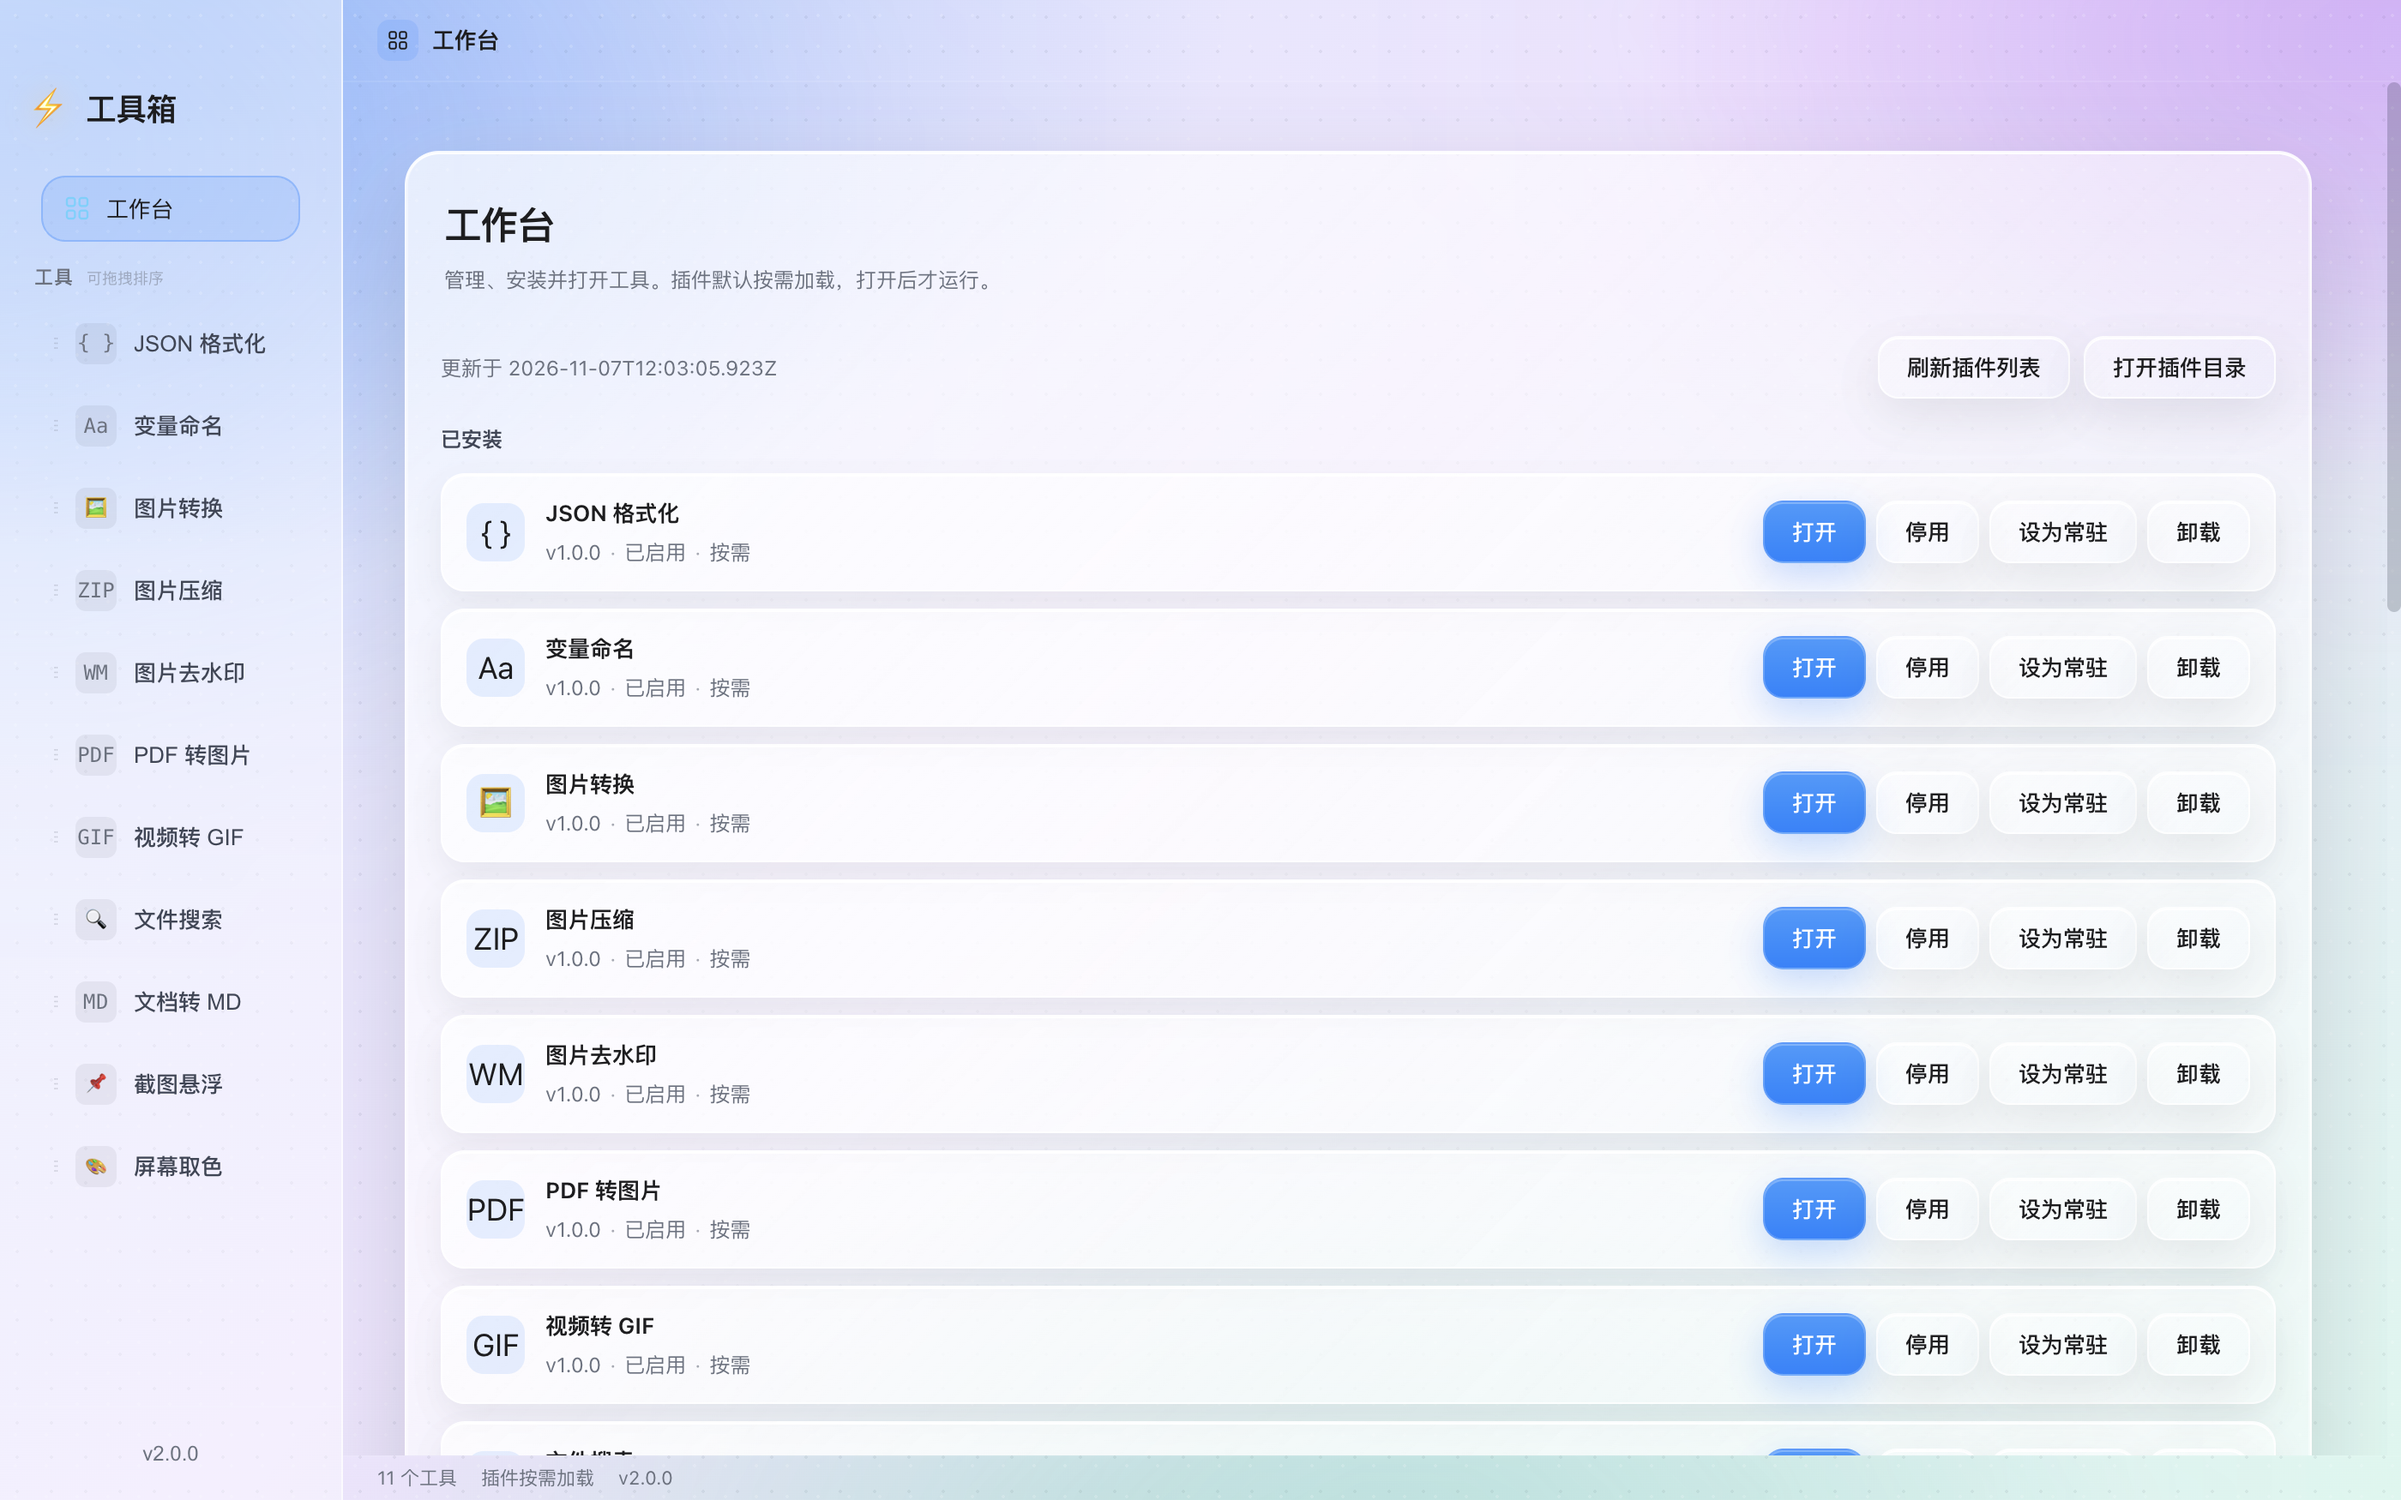
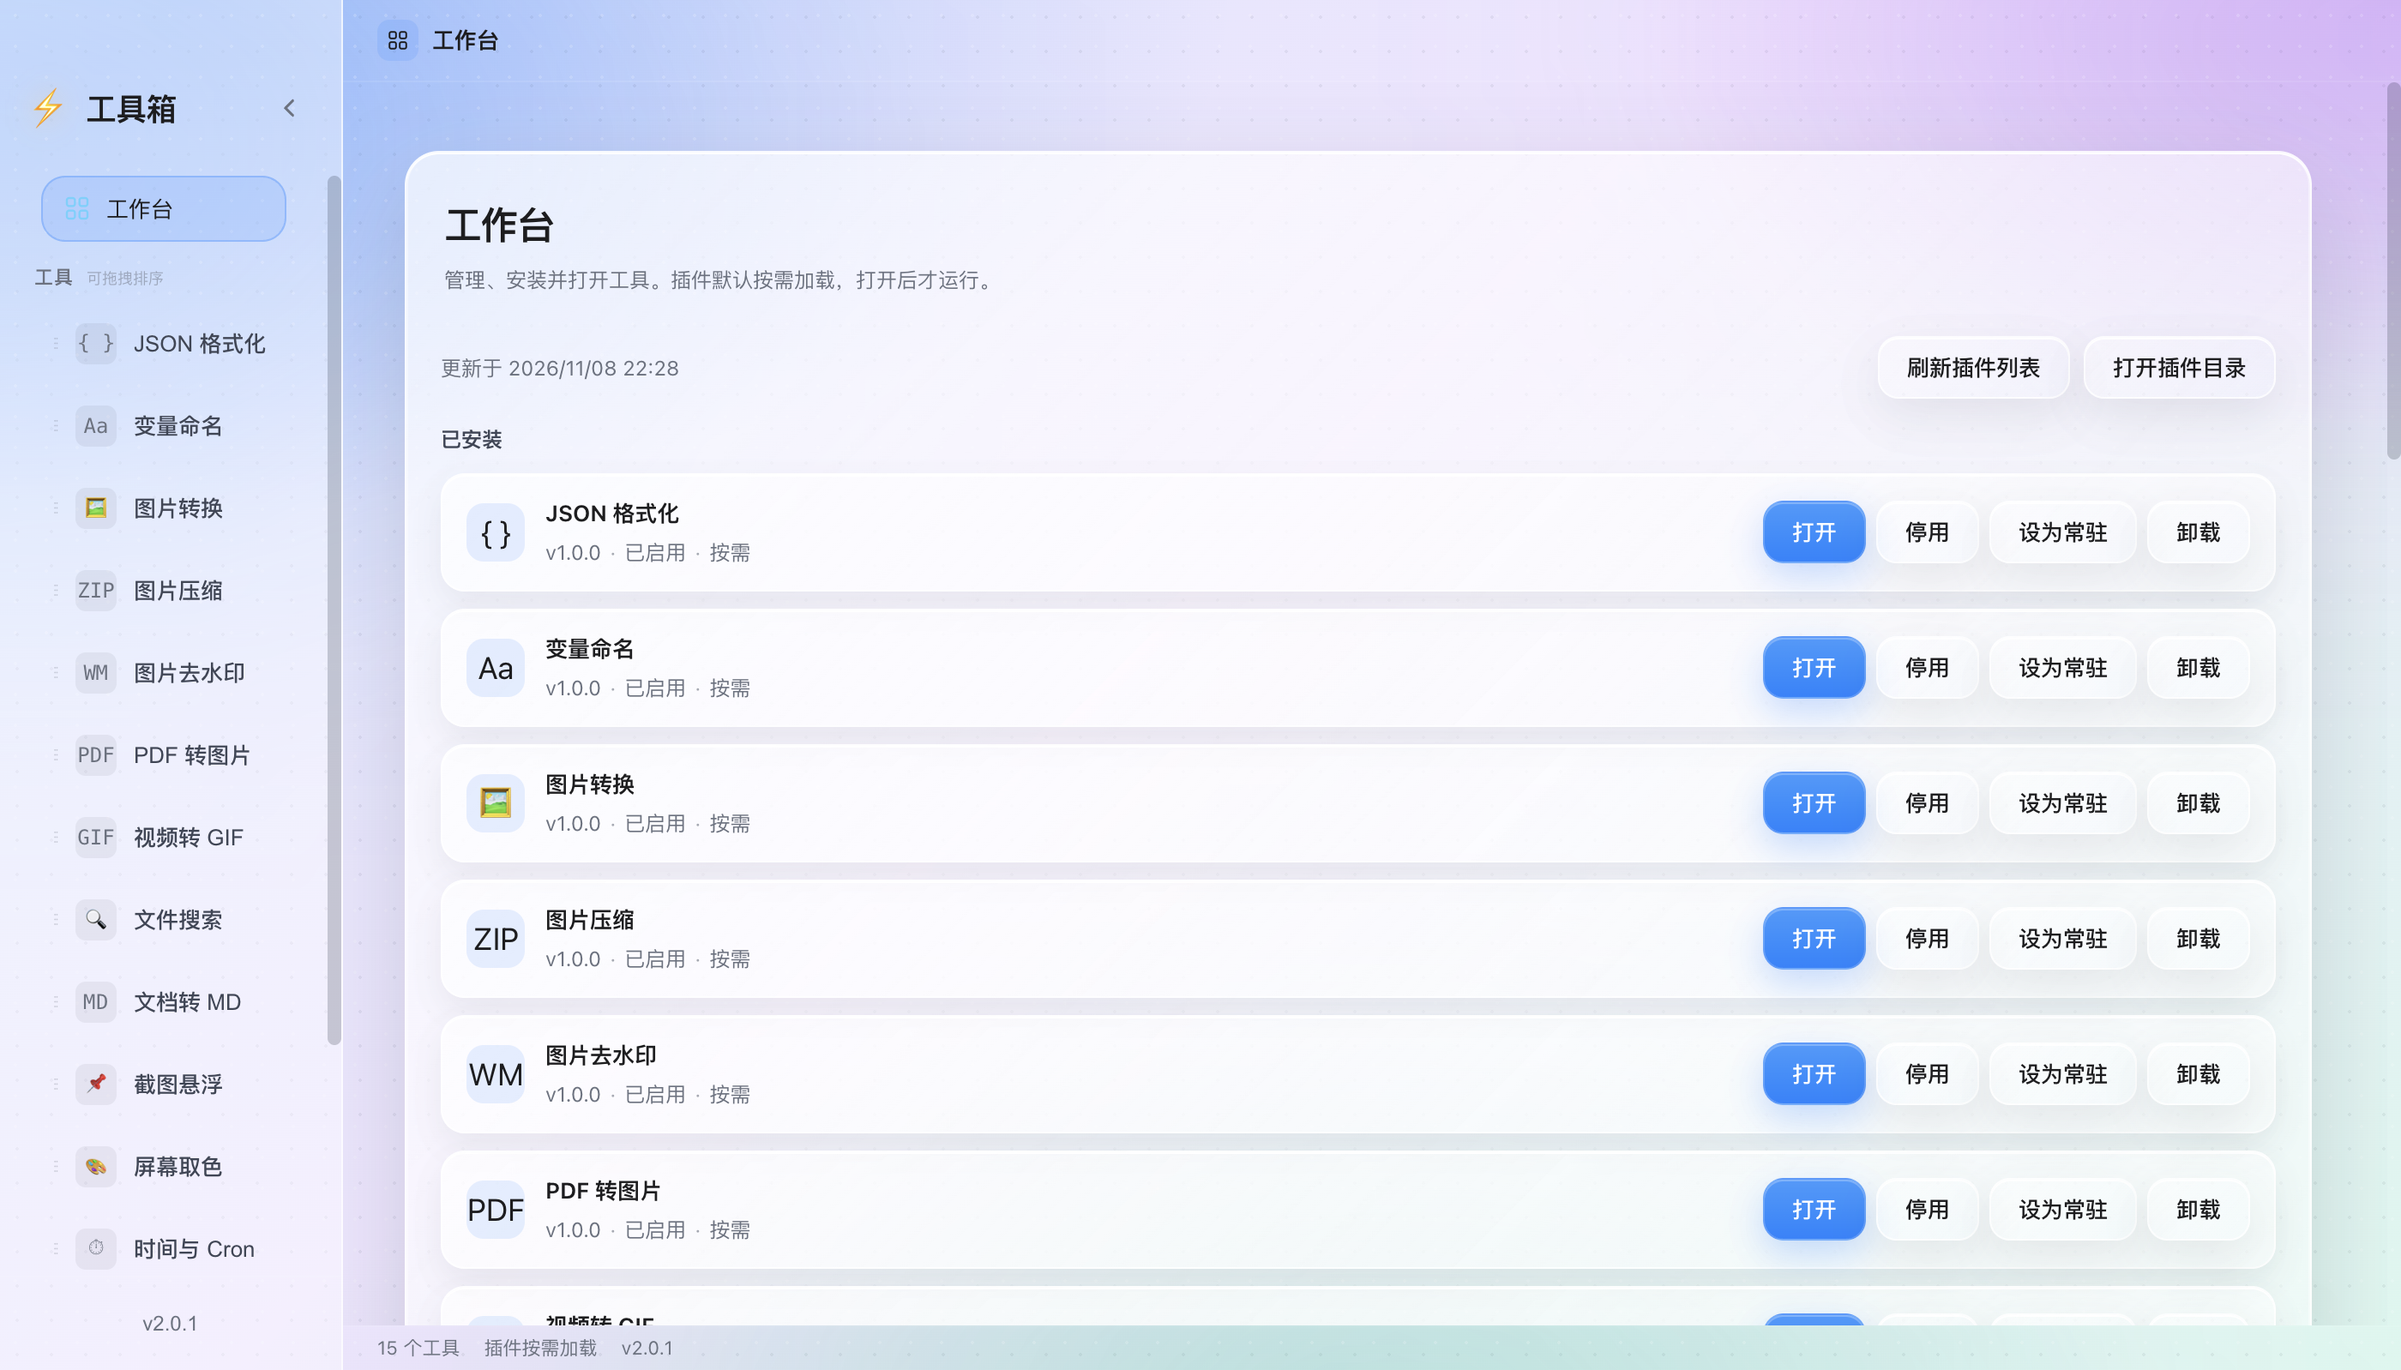
更新功能截图并新增 MCP skill

diff --git a/.qoder/skills/bennett-toolbox-mcp/SKILL.md b/.qoder/skills/bennett-toolbox-mcp/SKILL.md
@@ -1,0 +1,83 @@
+---
+name: bennett-toolbox-mcp
+description: Use the local Bennett Toolbox MCP server for JSON formatting, read-only SQLite queries, MarkItDown conversion, file search, time/Cron, QR codes, encoding/hash/JWT, regex/diff, and image inspection/conversion. Trigger when the user asks for these operations and the bennett-toolbox MCP tools are available; also use when an MCP tool fails or returns unexpected results.
+---
+
+# Bennett Toolbox MCP
+
+Bennett Toolbox exposes 14 local MCP tools. Use them instead of ad-hoc shell scripts when the MCP server is connected. Full schemas, examples, and installation instructions are in `docs/mcp.md`; tool descriptions are the source of truth.
+
+## First check
+
+1. Confirm the `bennett-toolbox` MCP server is connected and its tools are listed.
+2. If it is missing, tell the user to reload/restart the MCP client using the config in `docs/mcp.md`. Do not claim a tool ran if it is unavailable.
+3. If a tool schema differs from this skill, trust the live schema returned by the client.
+
+## Tool map
+
+| Task | Tool |
+| --- | --- |
+| Format/minify JSON | `json_format` |
+| Read-only SQLite | `sqlite_query` |
+| Document to Markdown | `markitdown_convert` |
+| Find files by name | `file_search` |
+| Timestamp/timezone | `time_convert` |
+| Next cron runs | `cron_next` |
+| QR code | `qr_generate` |
+| Base64/URL/Hex | `encoding_convert` |
+| Hashes/HMAC | `hash_text` |
+| JWT decode/verify | `jwt_decode` |
+| Regex test/replace | `regex_test` |
+| Text diff | `text_diff` |
+| Image metadata | `image_info` |
+| Image convert/resize | `image_convert` |
+
+## Operating rules
+
+- Prefer absolute paths. The tools read local files and return content to the AI client.
+- `sqlite_query` is **read-only**: one statement, no INSERT/UPDATE/DELETE/DDL or PRAGMA assignments; default limit 200, max 1000. Never try to bypass this with SQL tricks.
+- Use `sqlite_query` for schema inspection:
+  1. `SELECT name, type FROM sqlite_master WHERE type IN ('table','view') ORDER BY name`
+  2. `PRAGMA table_info("table_name")`
+  3. Then query data with a `LIMIT`.
+- Do not send secrets to tools unless the task needs them. Logs redact `secret/key/token/password`, but paths and SQL/text previews are logged.
+- Images and QR PNG are returned as MCP image content, not written to disk. If the user wants a file, explain that the client must save it.
+- `image_convert` requires sharp. The ZIP distribution installs it; the standalone `.mjs` only works for non-image tools unless sharp is available.
+- `markitdown_convert` uses `MARKITDOWN_BIN`, `BENNETT_MARKITDOWN_COMPONENT_DIR`, or the installed component. If it reports missing, ask the user to install the component or set `MARKITDOWN_BIN`.
+- Avoid catastrophic regex patterns; `regex_test` caps matches but cannot cancel arbitrary backtracking.
+
+## Common workflows
+
+### Inspect a SQLite database
+1. List tables/views with `sqlite_query`.
+2. Inspect columns with `PRAGMA table_info`.
+3. Run a bounded query, e.g. `SELECT * FROM "users" LIMIT 20`.
+4. Report `truncated: true` honestly and raise the limit only when needed.
+
+### Convert a document
+1. Confirm the file path exists.
+2. Call `markitdown_convert` with a timeout when needed.
+3. If MarkItDown is missing, stop and report the component/env fix.
+
+### Transform JSON
+Call `json_format`; use `minify: true` only when the user asks for compact output. Never hand-edit the returned JSON unless asked.
+
+### Time and Cron
+Use `time_convert` for epoch/ISO conversions and `cron_next` for schedule previews. State the timezone explicitly in the answer.
+
+### Security-sensitive text
+Use `hash_text`, `jwt_decode`, `encoding_convert`. For JWT verification, never echo the secret or full token in the final answer.
+
+### Images and QR
+Use `image_info` before converting. Use `image_convert` for format/quality/resize; report MIME, dimensions, and that the result is image content, not a saved file.
+
+## Troubleshooting
+
+- Tool missing: reload the MCP client; verify the server command uses Node 24+ and the correct `mcp/server.mjs` path.
+- SQLite error: check the file path/format; writes are intentionally rejected.
+- `node:sqlite` error: use Node 26/24 absolute path.
+- MarkItDown error: install the component or set `MARKITDOWN_BIN`.
+- Image error: install sharp (`npm install` in the ZIP distribution).
+- Logs: `~/Library/Logs/bennett-toolbox/mcp.log` (macOS), `%LOCALAPPDATA%\bennett-toolbox\logs\mcp.log` (Windows), `~/.local/state/bennett-toolbox/mcp.log` (Linux). Search `"success":false`; `BENNETT_MCP_LOG_DIR` overrides.
+
+Do not reimplement MCP behavior with shell commands when a connected tool exists. If MCP is unavailable, say so before using a fallback.

diff --git a/AGENTS.md b/AGENTS.md
@@ -31,7 +31,7 @@
 - 运行时：Node.js >= 24.8.0（验证环境 26.13.0），包管理器 npm
 - 测试：浏览器 `npm run test:e2e`；Electron 功能 `npm run test:electron`（55 项，含设置页英文扫描、主题持久化、响应式与侧栏折叠）；插件规则 `npm run test:unit`（6 项）；插件安装/加载/安全/组件下载/跨版本复用/并发状态/单实例 `npm run test:plugins`（6 项）；MCP `npm run test:mcp`（9 项）；打包版通过 `ELECTRON_APP_PATH` 指向 `.app` 可执行文件
 - 插件：独立仓库 `bennett-0727/bennett-toolbox-plugins`（官方插件 tag `plugin-v1.2.0`），11 个推荐工具 + 4 个可选开发者工具均为可安装插件；registry 通过 GitHub Release 分发，插件运行在受信渲染进程，安装包使用 SHA-256 校验
-- MCP：`mcp/server.mjs` 提供 stdio MCP，14 个工具（JSON、SQLite 只读、MarkItDown、文件搜索、时间/Cron、二维码、编码/哈希/JWT、正则/Diff、图片）；每次调用写 JSONL 操作日志（默认 `~/Library/Logs/bennett-toolbox/mcp.log`，敏感字段脱敏）；独立 `mcp-v*` Release 发布 standalone/ZIP；`npm run test:mcp` 验证
+- MCP：`mcp/server.mjs` 提供 stdio MCP，14 个工具（JSON、SQLite 只读、MarkItDown、文件搜索、时间/Cron、二维码、编码/哈希/JWT、正则/Diff、图片）；每次调用写 JSONL 操作日志（默认 `~/Library/Logs/bennett-toolbox/mcp.log`，敏感字段脱敏）；独立 `mcp-v*` Release 发布 standalone/ZIP；AI 使用指南见 `.qoder/skills/bennett-toolbox-mcp/SKILL.md`；`npm run test:mcp` 验证
 - 应用壳：`src/App.tsx` 不再静态导入工具；默认进入工作台，插件按需安装/卸载，点击工具后才加载插件界面
 - 屏幕适配：验证 1000×700 与 1200×760 无横向溢出，英文侧栏不截断，设置页 1120px 以下单列
 - 布局：默认工作台，不自动加载插件；侧栏+主画布+顶栏/状态栏，工具占满主画布；侧栏可收起为图标栏并持久化；设置直接嵌入工作台，侧栏不设设置入口

diff --git a/README.md b/README.md
@@ -39,6 +39,17 @@
 | **工作台** | 默认进入工作台，安装、卸载、停用或打开插件；顶部/底部状态栏常驻，工具占满主画布。<br><img src="docs/screenshots/15-workbench.png" width="560" /> |
 | **工作台设置** | 工作台内直接切换深色、浅色与彩色玻璃皮肤、界面语言与版本更新，不再有独立设置入口。<br><img src="docs/screenshots/14-settings.png" width="560" /> |
 
+### 可选开发者工具
+
+以下插件按需安装，不随“安装全部推荐工具”自动安装。
+
+| 工具 | 说明 |
+| --- | --- |
+| **时间与 Cron** | 时间戳解析、Cron 下次运行时间、IANA 时区转换。<br><img src="docs/screenshots/19-time-cron.png" width="560" /> |
+| **SQLite 查看器** | Schema 浏览、分页与快捷筛选、CodeMirror SQL 高亮/补全、历史/收藏、单表编辑与事务、全量导出。<br><img src="docs/screenshots/16-sqlite-viewer.png" width="560" /> |
+| **Markdown / Mermaid** | Markdown 实时预览、Mermaid 图表渲染，支持打开/下载 .md。<br><img src="docs/screenshots/17-markdown-mermaid.png" width="560" /> |
+| **二维码工具** | 生成 PNG 二维码，上传图片识别并复制结果。<br><img src="docs/screenshots/18-qr-tools.png" width="560" /> |
+
 ### 设置、语言与屏幕适配
 
 - 默认进入工作台，不自动加载插件；打开工具后占满主画布，侧栏与顶栏常驻；侧栏可收起为 64px 图标栏
@@ -75,6 +86,8 @@
 本地 AI 客户端可通过 stdio MCP 直接调用这些工具：
 
 完整工具参数、客户端配置、日志、安全与故障排查见 **[docs/mcp.md](docs/mcp.md)**。
+
+项目内提供 AI 使用指南 skill：`.qoder/skills/bennett-toolbox-mcp/SKILL.md`；复制到 `~/.qoder-cn/skills/` 可在其他项目复用。
 
 - `json_format`：格式化/压缩 JSON
 - `sqlite_query`：只读执行单条 SQL，限制返回行数，拒绝写语句

diff --git a/openspec/changes/archive/2026-11-08-add-bennett-mcp-skill/proposal.md b/openspec/changes/archive/2026-11-08-add-bennett-mcp-skill/proposal.md
@@ -1,0 +1,21 @@
+# Proposal
+
+## Why
+
+MCP 已提供 14 个工具，但 AI 客户端需要稳定的工具路由、安全边界与排错流程。新增一个薄 Skill，指导何时使用哪个 MCP 工具，并避免重复工具 Schema。
+
+## What Changes
+
+- 新增项目级 skill：`.qoder/skills/bennett-toolbox-mcp/SKILL.md`。
+- Skill 覆盖 14 个工具的选择、只读 SQLite 约束、路径/密钥安全、MarkItDown/sharp 依赖与日志排错。
+- README 说明 skill 位置与复制到用户级技能目录的方法。
+- 不修改 MCP 服务行为。
+
+## Capabilities
+
+无（AI 使用指南，不改变运行时行为）。
+
+## Impact
+
+- 新增：`.qoder/skills/bennett-toolbox-mcp/SKILL.md`
+- 修改：`README.md`、`AGENTS.md`、`CHANGELOG.md`

diff --git a/openspec/changes/archive/2026-11-08-update-feature-screenshots/proposal.md b/openspec/changes/archive/2026-11-08-update-feature-screenshots/proposal.md
@@ -1,0 +1,20 @@
+# Proposal
+
+## Why
+
+应用壳、侧栏折叠、时间本地化与四个可选开发者工具已上线，但 README 截图仍停留在旧界面，且没有 SQLite、Markdown/Mermaid、二维码、时间/Cron 的功能展示。
+
+## What Changes
+
+- 更新截图脚本：安装 11 个推荐插件 + 4 个可选工具，生成 SQLite 演示库并新增 16–19 截图。
+- 重新生成 01–15 截图，反映当前侧栏、时间格式与工作台界面。
+- README 增加“可选开发者工具”表格与 16–19 截图。
+- 不修改应用行为。
+
+## Capabilities
+
+无（纯截图与文档更新）。
+
+## Impact
+
+- 修改：`scripts/capture-screenshots.mjs`、`README.md`、`docs/screenshots/*`

diff --git a/CHANGELOG.md b/CHANGELOG.md
@@ -12,6 +12,7 @@
 - MCP 操作日志：JSONL 记录工具调用、耗时、错误与结果摘要，敏感字段脱敏并自动轮转
 - 补充 MCP 工具参考、客户端配置、日志与故障排查文档
 - MCP 独立发布：`mcp-v*` Release 提供 standalone、ZIP 与 SHA-256 校验文件
+- 新增 `bennett-toolbox-mcp` AI skill，提供工具路由、安全边界与排错指南
 
 ### Changed
 

diff --git a/openspec/changes/archive/2026-11-08-update-feature-screenshots/tasks.md b/openspec/changes/archive/2026-11-08-update-feature-screenshots/tasks.md
@@ -1,0 +1,12 @@
+# Tasks
+
+## 1. 截图
+
+- [x] 1.1 截图脚本安装 4 个可选工具并生成 SQLite 演示库
+- [x] 1.2 重新生成 01–15，新增 SQLite / Markdown / QR / 时间 Cron 截图
+
+## 2. 文档与验证
+
+- [x] 2.1 README 增加可选开发者工具与截图
+- [x] 2.2 检查截图内容与当前界面一致
+- [x] 2.3 归档 OpenSpec 变更

diff --git a/openspec/changes/archive/2026-11-08-add-bennett-mcp-skill/tasks.md b/openspec/changes/archive/2026-11-08-add-bennett-mcp-skill/tasks.md
@@ -1,0 +1,11 @@
+# Tasks
+
+## 1. Skill
+
+- [x] 1.1 新增 `bennett-toolbox-mcp` skill，覆盖工具路由、安全、常见流程与排错
+- [x] 1.2 README/AGENTS/CHANGELOG 增加 skill 说明与路径
+
+## 2. 验证与归档
+
+- [x] 2.1 核对 skill 中的工具名、路径、日志位置与 MCP 实现一致
+- [x] 2.2 归档 OpenSpec 变更
